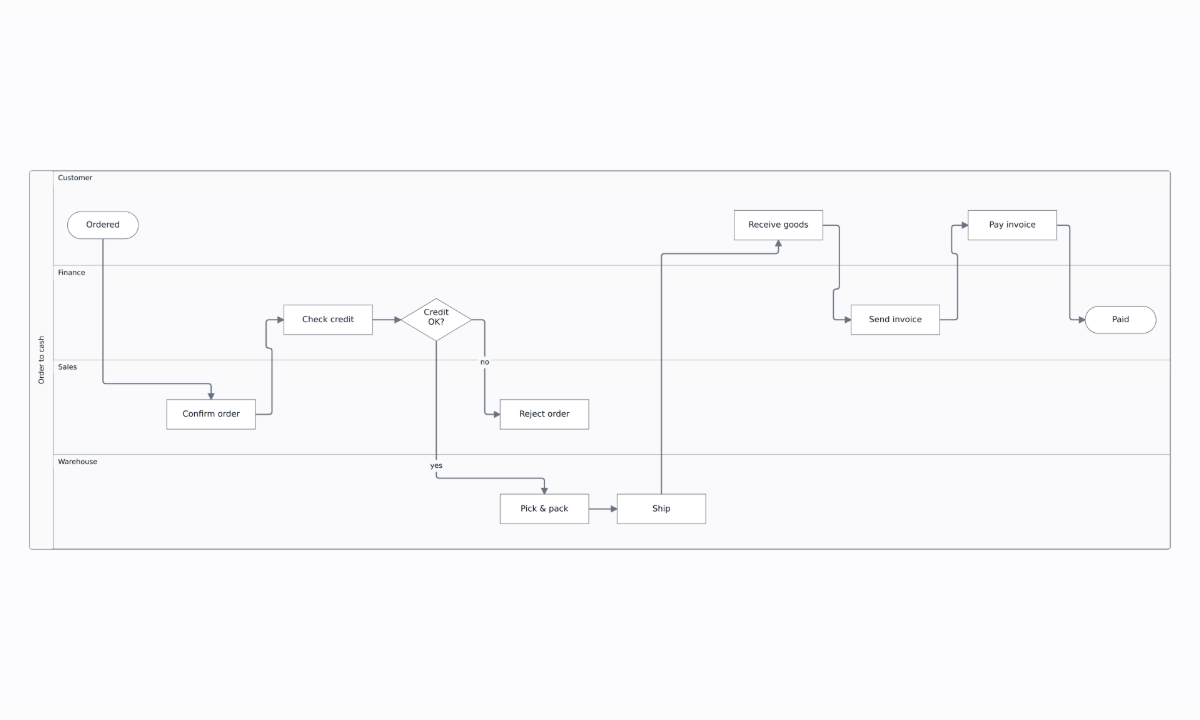
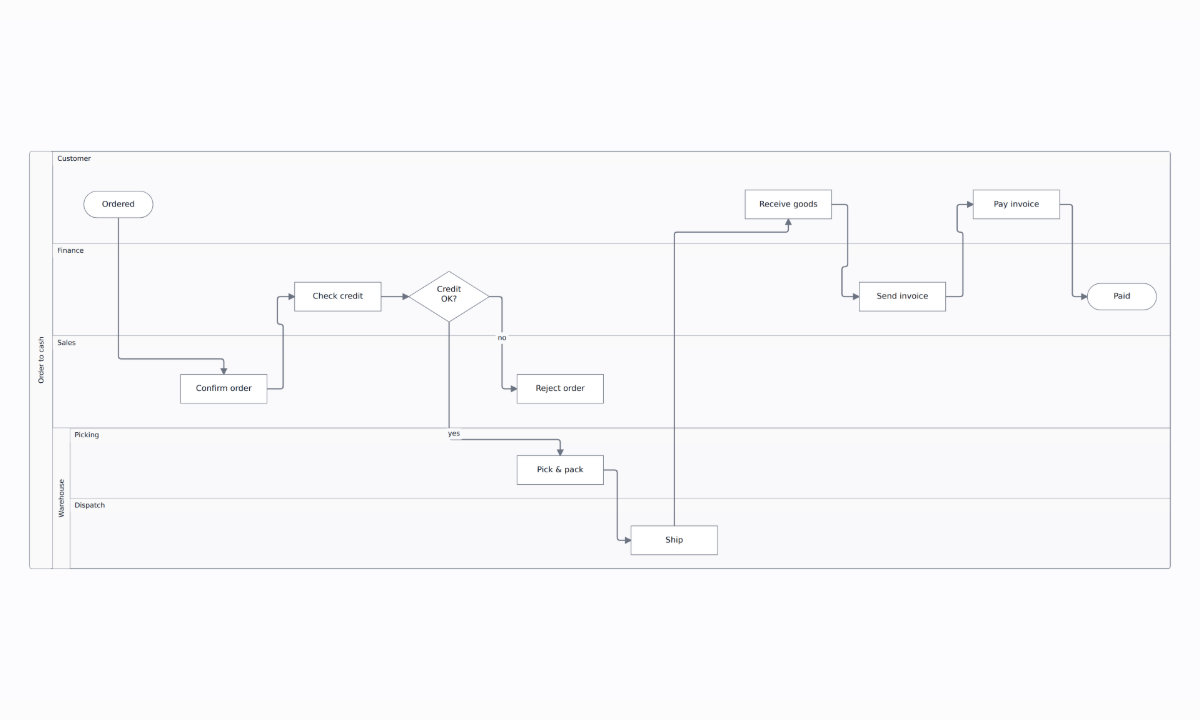
feat(demos): swimlane flow splits the Warehouse into two sub-lanes

diff --git a/demos/grouping/swimlane-flow.html b/demos/grouping/swimlane-flow.html
@@ -48,23 +48,24 @@ import { defineDemo, check } from '../shell/demo.js?v=drawer4';
 // border, a lane's place, a fold, a layout — is one step on the engine's undo
 // stack, because the SwimlaneService is given the engine's command manager.
 
-const LANES = ['Customer', 'Finance', 'Sales', 'Warehouse'];
-const [CUSTOMER, FINANCE, SALES, WAREHOUSE] = [0, 1, 2, 3];
+// The Warehouse is split into two SUB-LANES: Picking and Dispatch.
+const LANES = [{ name: 'Customer' }, { name: 'Finance' }, { name: 'Sales' }, { name: 'Warehouse', subs: ['Picking', 'Dispatch'] }];
+const TOP = LANES.map((l) => l.name);
 const STEP = { width: 150, height: 50 };
 const EVENT = { width: 120, height: 46 };
-const GATE = { width: 120, height: 72 };
+const GATE = { width: 140, height: 88 };
 const STEPS = [
-  { id: 'placed', label: 'Ordered', lane: CUSTOMER, size: EVENT, shape: { type: 'terminal' } },
-  { id: 'confirm', label: 'Confirm order', lane: SALES },
-  { id: 'credit', label: 'Check credit', lane: FINANCE },
-  { id: 'ok', label: 'Credit OK?', lane: FINANCE, size: GATE, shape: { type: 'diamond' } },
-  { id: 'reject', label: 'Reject order', lane: SALES },
-  { id: 'pick', label: 'Pick & pack', lane: WAREHOUSE },
-  { id: 'ship', label: 'Ship', lane: WAREHOUSE },
-  { id: 'receive', label: 'Receive goods', lane: CUSTOMER },
-  { id: 'invoice', label: 'Send invoice', lane: FINANCE },
-  { id: 'pay', label: 'Pay invoice', lane: CUSTOMER },
-  { id: 'paid', label: 'Paid', lane: FINANCE, size: EVENT, shape: { type: 'terminal' } },
+  { id: 'placed', label: 'Ordered', lane: 'Customer', size: EVENT, shape: { type: 'terminal' } },
+  { id: 'confirm', label: 'Confirm order', lane: 'Sales' },
+  { id: 'credit', label: 'Check credit', lane: 'Finance' },
+  { id: 'ok', label: 'Credit OK?', lane: 'Finance', size: GATE, shape: { type: 'diamond' } },
+  { id: 'reject', label: 'Reject order', lane: 'Sales' },
+  { id: 'pick', label: 'Pick & pack', lane: 'Picking' },
+  { id: 'ship', label: 'Ship', lane: 'Dispatch' },
+  { id: 'receive', label: 'Receive goods', lane: 'Customer' },
+  { id: 'invoice', label: 'Send invoice', lane: 'Finance' },
+  { id: 'pay', label: 'Pay invoice', lane: 'Customer' },
+  { id: 'paid', label: 'Paid', lane: 'Finance', size: EVENT, shape: { type: 'terminal' } },
 ];
 const LINKS = [
   ['placed', 'confirm'], ['confirm', 'credit'], ['credit', 'ok'], ['ok', 'pick', 'yes'], ['ok', 'reject', 'no'],
@@ -75,12 +76,13 @@ const MAIN_PATH = ['placed', 'confirm', 'credit', 'ok', 'pick', 'ship', 'receive
 
 defineDemo({
   name: 'Swimlane flow',
-  blurb: 'An order-to-cash process across four lanes: every step sits in the lane of whoever does it, and the connections cross lanes. Move a step to another lane, resize a lane by its border, reorder lanes by their titles, fold a lane to a band, lay the pool out: every edit is one undo step.',
+  blurb: 'An order-to-cash process across four lanes, the Warehouse split into two sub-lanes: every step sits in the lane of whoever does it, and the connections cross lanes. Move a step to another lane, resize a lane by its border, reorder lanes by their titles, fold a lane to a band, lay the pool out: every edit is one undo step.',
   howTo: [
-    'Read the flow left to right: the Customer orders, Sales confirms, Finance checks the credit and, if it is OK, the Warehouse picks and ships; the Customer receives the goods, Finance invoices and the Customer pays.',
+    'Read the flow left to right: the Customer orders, Sales confirms, Finance checks the credit and, if it is OK, the Warehouse picks and ships; the Customer receives the goods, Finance invoices and the Customer pays. The Warehouse is split into two sub-lanes, Picking and Dispatch, with its title in a strip on the left.',
     'Drag "Send invoice" up into the Sales lane and let go: it now belongs to Sales and sits fully inside it. Press Undo: it is back in Finance.',
     'Point at the line between two lanes: the cursor turns into a resize arrow. Drag it down: the lane above gets taller, the pool grows with it and the other lanes keep their size.',
     'Grab a lane by its title strip (the cursor shows a hand) and drag it above another lane: the lane moves there, its steps with it.',
+    'Drag "Ship" up from Dispatch into Picking: it belongs to Picking now. Grab Dispatch by its title and drag it above Picking: the two sub-lanes swap inside the Warehouse, which stays where it is. Grab the Warehouse by its strip on the left to move the whole lane, sub-lanes and all.',
     'Press Fold Finance: the lane folds to a thin band across the pool, the connections meet the band, and the pool closes up. Press it again to unfold.',
     'Drag a few steps along their lanes to make a mess, then press Lay out: the steps line up along their connections again, each in its own lane.',
     'Press Vertical pool: the same process with the lanes as columns, running top to bottom.',
@@ -97,8 +99,10 @@ defineDemo({
     const $ = (id) => document.getElementById(id);
     let svc, pool, lanes, orientation = 'horizontal';
 
-    const laneOf = (id) => svc.getLanes(pool).find((l) => l.members.has(id));
-    const finance = () => lanes[FINANCE];
+    const laneOf = (id) => svc.getLeafLanes(pool).find((l) => l.members.has(id));
+    /** A lane by name, at any depth (a top lane or a sub-lane). */
+    const laneNamed = (name) => [...svc.getLanes(pool), ...svc.getLeafLanes(pool)].find((l) => l.name === name);
+    const finance = () => laneNamed('Finance');
 
     const build = (o = orientation) => {
       orientation = o;
@@ -109,14 +113,15 @@ defineDemo({
       ({ pool, lanes } = plain.createPool({
         name: 'Order to cash', orientation,
         bounds: orientation === 'horizontal' ? { x: 0, y: 0, width: 1400, height: 640 } : { x: 0, y: 0, width: 760, height: 1300 },
-        lanes: LANES.map((name) => ({ name })),
+        lanes: LANES.map(({ name }) => ({ name })),
         headerSize: 40,
       }));
+      for (const l of LANES) if (l.subs) plain.splitLane(pool, lanes.find((x) => x.name === l.name).id, l.subs.map((name) => ({ name })));
       api.setNodes(STEPS.map((s) => {
-        const b = lanes[s.lane].getInnerBounds();
+        const b = laneNamed(s.lane).getInnerBounds();
         return { id: s.id, label: s.label, position: { x: b.x + 10, y: b.y + 30 }, size: { ...(s.size ?? STEP) }, ...(s.shape ? { shape: s.shape } : {}) };
       }));
-      for (const s of STEPS) lanes[s.lane].addMember(s.id, model);
+      for (const s of STEPS) laneNamed(s.lane).addMember(s.id, model);
       api.setEdges(LINKS.map(([source, target, label]) => ({ id: `${source}-${target}`, source, target, type: 'orthogonal', ...(label ? { label } : {}) })));
       layoutPool(model, pool, { rankSpacing: 48 });
       cm.clear();
@@ -194,6 +199,7 @@ defineDemo({
       api.renderNow();
     };
     ctx.laneOf = laneOf;
+    ctx.lane = laneNamed;
     ctx.reset = () => { build('horizontal'); remember(); };
     await ctx.tick();
   },
@@ -201,35 +207,37 @@ defineDemo({
   async assert(ctx) {
     ctx.reset();
     const m = ctx.diagram, engine = ctx.engine, cm = engine.commandManager;
-    let svc = ctx.svc, pool = ctx.pool, lanes = ctx.lanes;
+    let svc = ctx.svc, pool = ctx.pool;
+    const lane = (name) => ctx.lane(name);
     const box = (id) => { const n = m.getNode(id); return { x: n.position.x, y: n.position.y, w: n.size.width, h: n.size.height }; };
     const centre = (id) => { const b = box(id); return { x: b.x + b.w / 2, y: b.y + b.h / 2 }; };
-    const inside = (id, lane) => { const b = box(id), r = lane.getInnerBounds(); return b.x >= r.x - 0.5 && b.y >= r.y - 0.5 && b.x + b.w <= r.x + r.width + 0.5 && b.y + b.h <= r.y + r.height + 0.5; };
+    const inside = (id, l) => { const b = box(id), r = l.getInnerBounds(); return b.x >= r.x - 0.5 && b.y >= r.y - 0.5 && b.x + b.w <= r.x + r.width + 0.5 && b.y + b.h <= r.y + r.height + 0.5; };
     const tiled = () => { const b = svc.getLanes(pool).map((l) => l.getOuterBounds()); return b.every((r, i) => i === 0 || Math.abs(r.y - (b[i - 1].y + b[i - 1].height)) < 1); };
     const heights = () => svc.getLanes(pool).map((l) => Math.round(l.getOuterBounds().height));
     const flowReads = () => MAIN_PATH.every((id, i) => i === 0 || box(id).x > box(MAIN_PATH[i - 1]).x);
-    const STEP_LANE = Object.fromEntries(STEPS.map((s) => [s.id, s.lane]));
-    const everyStepHome = () => STEPS.every((s) => ctx.laneOf(s.id) === lanes[s.lane] && inside(s.id, lanes[s.lane]));
+    const everyStepHome = () => STEPS.every((s) => ctx.laneOf(s.id) === lane(s.lane) && inside(s.id, lane(s.lane)));
+    const pause = (ms = 30) => new Promise((r) => setTimeout(r, ms));
 
-    // 1. Four lanes tile the pool; every step is inside its own lane; the main path reads left to right.
-    check(svc.getLanes(pool).map((l) => l.name).join() === LANES.join(), `the lanes should be ${LANES.join(', ')}`);
+    // 1. Four lanes tile the pool, the Warehouse split into Picking and Dispatch; every step in its own lane; the main path reads left to right.
+    check(svc.getLanes(pool).map((l) => l.name).join() === TOP.join(), `the lanes should be ${TOP.join(', ')}`);
+    check(svc.getLeafLanes(pool).map((l) => l.name).join() === 'Customer,Finance,Sales,Picking,Dispatch', 'the Warehouse should be split into Picking and Dispatch');
     check(tiled(), 'the four lanes should tile the pool');
     check(everyStepHome(), 'every step should start inside its own lane');
     check(flowReads(), 'the main path should read left to right');
 
     // 2. A step dragged into another lane joins it, fully inside; Undo takes it back.
-    const sales = lanes[SALES].getOuterBounds();
+    const sales = lane('Sales').getOuterBounds();
     await ctx.drag(centre('invoice'), { x: centre('invoice').x, y: sales.y + sales.height / 2 + 10 });
-    check(ctx.laneOf('invoice') === lanes[SALES], `"Send invoice" should now be in Sales, it is in ${ctx.laneOf('invoice')?.name}`);
-    check(inside('invoice', lanes[SALES]), '"Send invoice" should sit fully inside Sales');
+    check(ctx.laneOf('invoice') === lane('Sales'), `"Send invoice" should now be in Sales, it is in ${ctx.laneOf('invoice')?.name}`);
+    check(inside('invoice', lane('Sales')), '"Send invoice" should sit fully inside Sales');
     check(!document.getElementById('undo').disabled, 'Undo should be live after a drop');
     document.getElementById('undo').click();
-    await new Promise((r) => setTimeout(r, 30));
-    check(ctx.laneOf('invoice') === lanes[FINANCE] && inside('invoice', lanes[FINANCE]), 'Undo should put "Send invoice" back in Finance');
+    await pause();
+    check(ctx.laneOf('invoice') === lane('Finance') && inside('invoice', lane('Finance')), 'Undo should put "Send invoice" back in Finance');
 
     // 3. The line under Customer, dragged down by hand: Customer grows, the pool with it, the others keep their size.
     const h0 = heights(), p0 = pool.getOuterBounds();
-    const c0 = lanes[CUSTOMER].getOuterBounds();
+    const c0 = lane('Customer').getOuterBounds();
     await ctx.drag({ x: c0.x + c0.width - 40, y: c0.y + c0.height }, { x: c0.x + c0.width - 40, y: c0.y + c0.height + 60 });
     const h1 = heights();
     check(Math.abs(h1[0] - (h0[0] + 60)) <= 1 && h1.slice(1).join() === h0.slice(1).join(), `dragging Customer's border should make only Customer 60 taller (${h0} → ${h1})`);
@@ -239,64 +247,78 @@ defineDemo({
     check(heights().join() === h0.join(), 'one Undo should restore the lane sizes');
 
     // 4. Finance dragged by its title above Customer: the lane moves, its steps ride along.
-    const f0 = lanes[FINANCE].getOuterBounds();
+    const f0 = lane('Finance').getOuterBounds();
     await ctx.drag({ x: f0.x + 300, y: f0.y + 10 }, { x: f0.x + 300, y: pool.getOuterBounds().y + 4 }, 16);
     check(svc.getLanes(pool).map((l) => l.name).join() === 'Finance,Customer,Sales,Warehouse', `Finance should now come first, got ${svc.getLanes(pool).map((l) => l.name)}`);
     check(tiled() && everyStepHome(), 'after a reorder the lanes should tile and every step stay in its lane');
     await cm.undo();
-    check(svc.getLanes(pool).map((l) => l.name).join() === LANES.join(), 'one Undo should put the lanes back in order');
+    check(svc.getLanes(pool).map((l) => l.name).join() === TOP.join(), 'one Undo should put the lanes back in order');
 
-    // 5. Fold Finance: a band, the pool closes up, a drop onto the band goes home; unfold restores.
-    const pf = pool.getOuterBounds().height, ff = lanes[FINANCE].getOuterBounds().height;
+    // 5. Sub-lanes: "Ship" dragged from Dispatch into Picking joins it; Dispatch dragged by its title above Picking swaps the two inside the Warehouse.
+    const pk = lane('Picking').getOuterBounds();
+    await ctx.drag(centre('ship'), { x: centre('ship').x, y: pk.y + pk.height / 2 + 10 });
+    check(ctx.laneOf('ship') === lane('Picking') && inside('ship', lane('Picking')), `"Ship" should now be in Picking, it is in ${ctx.laneOf('ship')?.name}`);
+    await cm.undo();
+    check(ctx.laneOf('ship') === lane('Dispatch'), 'one Undo should put "Ship" back in Dispatch');
+    const d0 = lane('Dispatch').getOuterBounds();
+    await ctx.drag({ x: d0.x + 400, y: d0.y + 10 }, { x: d0.x + 400, y: lane('Picking').getOuterBounds().y + 4 }, 16);
+    check(svc.getLeafLanes(pool).map((l) => l.name).join() === 'Customer,Finance,Sales,Dispatch,Picking', `Dispatch should now come before Picking, got ${svc.getLeafLanes(pool).map((l) => l.name)}`);
+    check(svc.getLanes(pool).map((l) => l.name).join() === TOP.join(), 'swapping sub-lanes should leave the lanes where they are');
+    check(everyStepHome(), 'after swapping sub-lanes every step should stay in its lane');
+    await cm.undo();
+    check(svc.getLeafLanes(pool).map((l) => l.name).join() === 'Customer,Finance,Sales,Picking,Dispatch', 'one Undo should swap them back');
+
+    // 6. Fold Finance: a band, the pool closes up, a drop onto the band goes home; unfold restores.
+    const pf = pool.getOuterBounds().height, ff = lane('Finance').getOuterBounds().height;
     document.getElementById('fold').click();
-    await new Promise((r) => setTimeout(r, 40));
-    check(lanes[FINANCE].isCollapsed && Math.round(lanes[FINANCE].getOuterBounds().height) === 44, 'Finance should fold to a 44px band');
+    await pause(40);
+    check(lane('Finance').isCollapsed && Math.round(lane('Finance').getOuterBounds().height) === 44, 'Finance should fold to a 44px band');
     check(Math.abs(pool.getOuterBounds().height - (pf - ff + 44)) <= 1, 'the pool should give the folded space back');
     check(m.getNode('credit').state.visible === false, "Finance's steps should be hidden while it is folded");
-    const band = lanes[FINANCE].getOuterBounds(), pay0 = { ...m.getNode('pay').position };
+    const band = lane('Finance').getOuterBounds(), pay0 = { ...m.getNode('pay').position };
     await ctx.drag(centre('pay'), { x: centre('pay').x, y: band.y + band.height / 2 });
-    check(Math.abs(m.getNode('pay').position.y - pay0.y) < 1 && ctx.laneOf('pay') === lanes[CUSTOMER], 'a step dropped on a folded band should go back where it came from');
+    check(Math.abs(m.getNode('pay').position.y - pay0.y) < 1 && ctx.laneOf('pay') === lane('Customer'), 'a step dropped on a folded band should go back where it came from');
     document.getElementById('fold').click();
-    await new Promise((r) => setTimeout(r, 40));
-    check(!lanes[FINANCE].isCollapsed && Math.abs(pool.getOuterBounds().height - pf) <= 1, 'unfolding should give Finance its size back');
+    await pause(40);
+    check(!lane('Finance').isCollapsed && Math.abs(pool.getOuterBounds().height - pf) <= 1, 'unfolding should give Finance its size back');
     check(everyStepHome(), 'after unfolding every step should be in its lane again');
 
-    // 6. A mess, then Lay out: the flow reads again; one Undo brings the mess back.
-    const r0 = lanes[CUSTOMER].getInnerBounds();
+    // 7. A mess, then Lay out: the flow reads again; one Undo brings the mess back.
+    const r0 = lane('Customer').getInnerBounds();
     await ctx.drag(centre('pay'), { x: r0.x + 40, y: centre('pay').y });
     check(!flowReads(), 'the dragged step should have broken the reading order (precondition)');
     document.getElementById('lay-out').click();
-    await new Promise((r) => setTimeout(r, 30));
+    await pause();
     check(flowReads() && everyStepHome() && tiled(), 'Lay out should line the steps up along the flow, each in its own lane');
     await cm.undo();
     check(!flowReads(), 'one Undo should bring the pre-layout positions back');
 
-    // 7. The engine's own layout keeps the pool whole too.
+    // 8. The engine's own layout keeps the pool whole too.
     await engine.layout('layered', { direction: 'LR' });
     check(tiled() && everyStepHome(), 'engine.layout() should keep the lanes tiled and every step in its lane');
 
-    // 8. A full lane refuses a step: it goes home.
-    lanes[WAREHOUSE].capacity = 2; // the Warehouse holds "Pick & pack" and "Ship"
+    // 9. A full lane refuses a step: it goes home.
+    lane('Picking').capacity = 1; // Picking holds "Pick & pack"
     const rc0 = { ...m.getNode('receive').position };
-    const wh = lanes[WAREHOUSE].getOuterBounds();
-    await ctx.drag(centre('receive'), { x: centre('receive').x, y: wh.y + wh.height / 2 });
-    check(ctx.laneOf('receive') === lanes[CUSTOMER] && Math.abs(m.getNode('receive').position.y - rc0.y) < 1, 'a full lane should send the step back where it came from');
-    lanes[WAREHOUSE].capacity = undefined;
+    const pkb = lane('Picking').getOuterBounds();
+    await ctx.drag(centre('receive'), { x: centre('receive').x, y: pkb.y + pkb.height / 2 });
+    check(ctx.laneOf('receive') === lane('Customer') && Math.abs(m.getNode('receive').position.y - rc0.y) < 1, 'a full lane should send the step back where it came from');
+    lane('Picking').capacity = undefined;
 
-    // 9. + Lane adds a lane, one Undo takes it away.
+    // 10. + Lane adds a lane, one Undo takes it away.
     document.getElementById('add-lane').click();
     check(svc.getLanes(pool).length === 5 && tiled(), '+ Lane should add a fifth lane that tiles');
-    await new Promise((r) => setTimeout(r, 30)); // the edit reaches the undo stack a moment later
+    await pause(); // the edit reaches the undo stack a moment later
     await cm.undo();
     check(svc.getLanes(pool).length === 4, 'one Undo should remove the added lane');
 
-    // 10. The vertical pool: lanes are columns and the flow runs top to bottom.
+    // 11. The vertical pool: lanes are columns (the Warehouse's sub-lanes too) and the flow runs top to bottom.
     document.getElementById('turn').click();
-    svc = ctx.svc; pool = ctx.pool; lanes = ctx.lanes;
+    svc = ctx.svc; pool = ctx.pool;
     const cols = svc.getLanes(pool).map((l) => l.getOuterBounds());
     check(cols.every((r, i) => i === 0 || Math.abs(r.x - (cols[i - 1].x + cols[i - 1].width)) < 1), 'in the vertical pool the lanes should tile as columns');
     check(MAIN_PATH.every((id, i) => i === 0 || box(id).y > box(MAIN_PATH[i - 1]).y), 'in the vertical pool the flow should run top to bottom');
-    check(STEPS.every((s) => inside(s.id, lanes[STEP_LANE[s.id]])), 'in the vertical pool every step should be in its lane');
+    check(STEPS.every((s) => inside(s.id, lane(s.lane))), 'in the vertical pool every step should be in its lane');
     ctx.reset();
   },
 });
